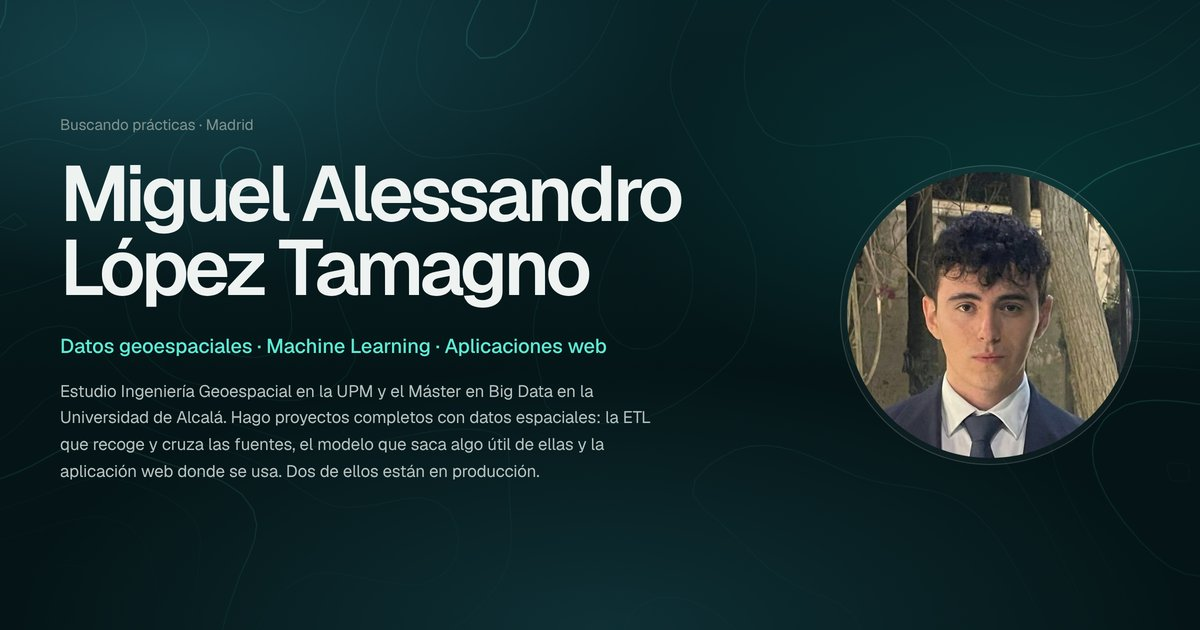
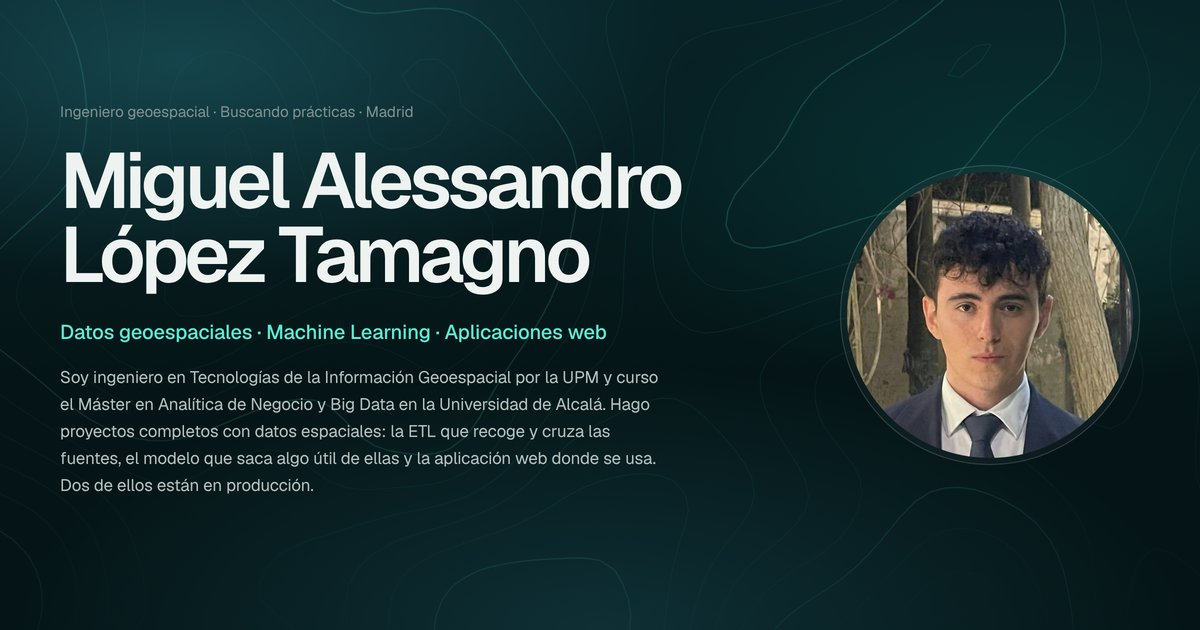
Perfil actualizado: ingeniero graduado cursando el máster
- Grado y TFG como terminados (2022 – 2026); máster en curso
- Hero, Sobre mí, formación, delegado y meta description coherentes
- Título de grado añadido a los datos estructurados (JSON-LD)
- Imagen Open Graph actualizada

Claude-Session: https://claude.ai/code/session_01CTi7mV3PN9TPc5q8A15JzF

Changed region(s): [[0.0308, 0.5127, 0.555, 0.7841], [0.0308, 0.2413, 0.5858, 0.4825], [0.0308, 0.1508, 0.3392, 0.2111]]

diff --git a/src/app/core/data/profile.ts b/src/app/core/data/profile.ts
@@ -14,12 +14,12 @@ export const PROFILE = {
   cv: 'data/cv_miguellopez.pdf',
   linkedin: 'https://www.linkedin.com/in/miguel-alessandro-lopez/',
   github: 'https://github.com/miguellopezt',
-  availability: 'Buscando prácticas',
+  availability: 'Ingeniero geoespacial · Buscando prácticas',
   focus: [] as readonly string[],
   lead:
-    'Estudio Ingeniería Geoespacial en la UPM y el Máster en Big Data en la Universidad de Alcalá. Hago proyectos completos con datos espaciales: la ETL que recoge y cruza las fuentes, el modelo que saca algo útil de ellas y la aplicación web donde se usa. Dos de ellos están en producción.',
+    'Soy ingeniero en Tecnologías de la Información Geoespacial por la UPM y curso el Máster en Analítica de Negocio y Big Data en la Universidad de Alcalá. Hago proyectos completos con datos espaciales: la ETL que recoge y cruza las fuentes, el modelo que saca algo útil de ellas y la aplicación web donde se usa. Dos de ellos están en producción.',
   description:
-    'Estudiante de Ingeniería Geoespacial (UPM) y del Máster en Big Data (UAH). ETL con datos espaciales, Machine Learning, visión por computador y aplicaciones web en producción.',
+    'Ingeniero en Tecnologías de la Información Geoespacial (UPM), cursando el Máster en Big Data (UAH). ETL con datos espaciales, Machine Learning, visión por computador y aplicaciones web en producción.',
 } as const;
 
 export const HERO_METRICS: readonly (Kpi & { source: string })[] = [
@@ -33,7 +33,7 @@ export const ABOUT = {
   paragraphs: [
     'Lo que más me interesa son los problemas en los que la ubicación cambia el resultado: el precio de un piso, la calidad del aire en una estación o la orientación de un coche en una foto aérea. Casi siempre empiezan igual: datos públicos repartidos en formatos y escalas distintas que hay que limpiar y cruzar antes de poder modelar nada.',
     'Trabajo sobre todo en Python. Para los datos uso GeoPandas, PostGIS y ETL propias; para modelar, XGBoost si el problema es tabular, LSTM para series temporales y PyTorch para visión y grafos. Cuando el proyecto lo pide, hago la API con FastAPI, el frontend con React y MapLibre, y lo despliego en un servidor de Oracle Cloud con Nginx.',
-    'Estoy en el último curso del Grado en la UPM, curso el Máster en Analítica de Negocio y Big Data en la Universidad de Alcalá y busco prácticas en ingeniería de datos, GIS o Machine Learning.',
+    'Me gradué en Ingeniería en Tecnologías de la Información Geoespacial en la UPM, con el TFG en la Cátedra IGN y CNIG. Ahora curso el Máster en Analítica de Negocio y Big Data en la Universidad de Alcalá y busco prácticas en ingeniería de datos, GIS o Machine Learning.',
   ],
   quoteLabel: 'Cómo trabajo',
   quote:
@@ -138,11 +138,11 @@ export const TIMELINE: readonly TimelineItem[] = [
     chips: ['60 ECTS', 'Big Data', 'Business Analytics'],
   },
   {
-    date: '2022 – actualidad',
+    date: '2022 – 2026',
     title: 'Grado en Ingeniería en Tecnologías de la Información Geoespacial',
     org: 'Universidad Politécnica de Madrid',
-    text: 'SIG, infraestructuras de datos espaciales, Big Data, ingeniería de datos, programación y algoritmia aplicada a problemas geográficos. Delegado de 4º curso.',
-    chips: ['SIG', 'IDE', 'Big Data'],
+    text: 'SIG, infraestructuras de datos espaciales, Big Data, ingeniería de datos, programación y algoritmia aplicada a problemas geográficos. Fui delegado de 4º curso.',
+    chips: ['Graduado', 'SIG', 'IDE', 'Big Data'],
   },
   {
     date: 'TFG',
@@ -167,6 +167,6 @@ export const SOFT_SKILLS = [
   {
     title: 'Trabajo en equipo',
     img: 'img/icons/innovacion.svg',
-    text: 'Delegado de 4º curso en el Grado: represento a mis compañeros ante el profesorado.',
+    text: 'Fui delegado de 4º curso en el Grado: hacía de enlace entre mis compañeros y el profesorado.',
   },
 ] as const;

diff --git a/src/app/core/data/projects.ts b/src/app/core/data/projects.ts
@@ -106,7 +106,7 @@ export const PROJECTS: readonly Project[] = [
     icon: 'scan',
     featured: true,
     summary:
-      'Mi TFG en la Cátedra IGN y CNIG-UPM: detectar vehículos en ortofotos del PNOA y estimar hacia dónde apuntan, con YOLO OBB seguido de una ResNet.',
+      'Mi Trabajo Fin de Grado en la Cátedra IGN y CNIG-UPM: detectar vehículos en ortofotos del PNOA y estimar hacia dónde apuntan, con YOLO OBB seguido de una ResNet.',
     highlights: [
       'Mi Trabajo Fin de Grado, dentro de la Cátedra IGN y CNIG-UPM: detectar vehículos en las ortofotos del PNOA y estimar hacia dónde apunta cada uno (su acimut).',
       'Son dos redes en cadena. <strong>YOLO con cajas orientadas (OBB)</strong> detecta cada vehículo en teselas de 512×512 px; después una <strong>ResNet</strong> recibe el recorte y predice el ángulo como seno y coseno. Al final la orientación se ajusta con las detecciones vecinas y la dirección de la vía.',

diff --git a/src/app/core/seo.service.ts b/src/app/core/seo.service.ts
@@ -78,6 +78,12 @@ export const personLd = () => ({
     { '@type': 'CollegeOrUniversity', name: 'Universidad Politécnica de Madrid' },
     { '@type': 'CollegeOrUniversity', name: 'Universidad de Alcalá' },
   ],
+  hasCredential: {
+    '@type': 'EducationalOccupationalCredential',
+    credentialCategory: 'degree',
+    name: 'Grado en Ingeniería en Tecnologías de la Información Geoespacial',
+    recognizedBy: { '@type': 'CollegeOrUniversity', name: 'Universidad Politécnica de Madrid' },
+  },
   knowsAbout: ['Geospatial data engineering', 'GIS', 'Machine Learning', 'Deep Learning', 'Computer Vision', 'Remote sensing', 'ETL', 'FastAPI', 'React'],
   knowsLanguage: ['es', 'en'],
   sameAs: [PROFILE.linkedin, PROFILE.github],

diff --git a/src/app/pages/home/journey.ts b/src/app/pages/home/journey.ts
@@ -45,7 +45,7 @@ import { Reveal, Spotlight } from '../../shared/motion/directives';
               <h3>Más</h3>
               <ul class="facts">
                 <li><app-icon name="award" /><span><b>Certificado Aptis General — B2</b>British Council, nivel MCER B2.</span></li>
-                <li><app-icon name="users" /><span><b>Delegado de curso</b>4º del Grado en la UPM.</span></li>
+                <li><app-icon name="users" /><span><b>Delegado de curso</b>Fui delegado de 4º en el Grado (UPM).</span></li>
                 <li><app-icon name="car" /><span><b>Carnet B y vehículo propio</b>Disponibilidad total para desplazamientos.</span></li>
               </ul>
             </div>
